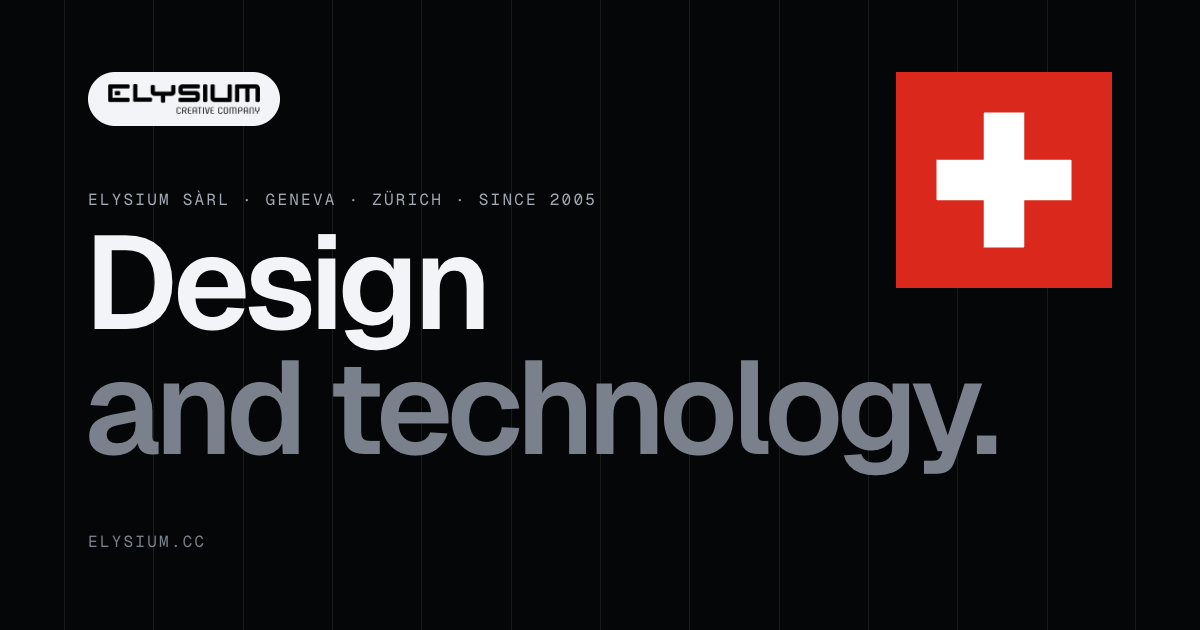
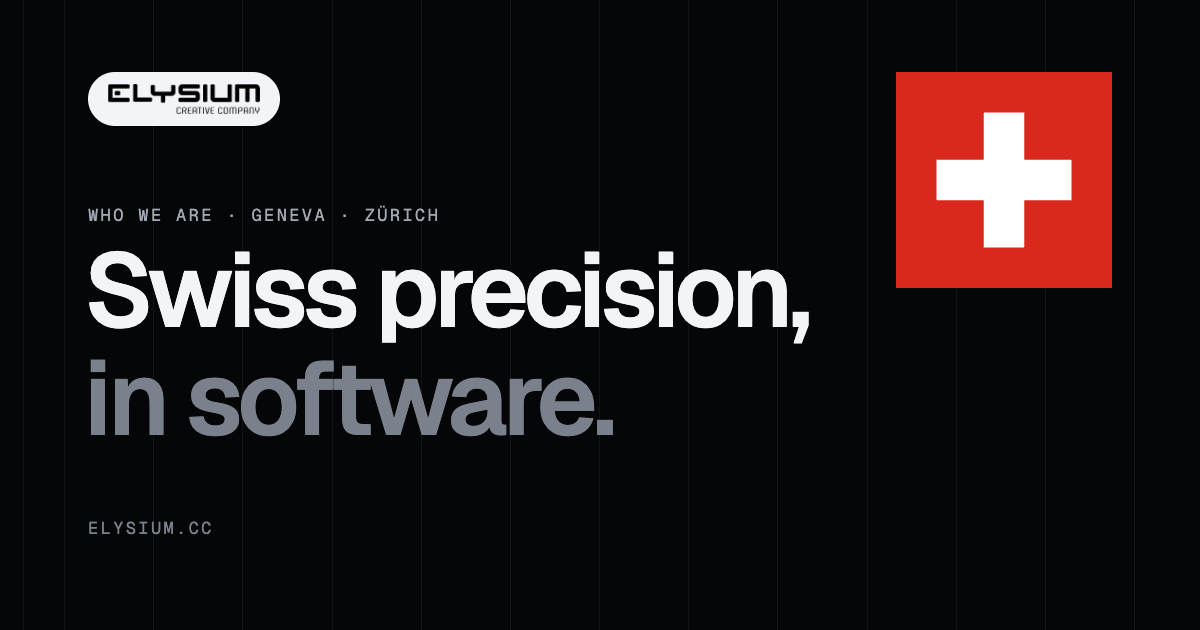
Share image: the live site's words, not the rejected slogan
assets/og.png still read "Elysium Sàrl · since 2005 · Design and
technology.", the text the CEO rejected, and it is what WhatsApp, iMessage
and LinkedIn show when the link is shared. Re-rendered with "Who we are ·
Geneva · Zürich" and "Swiss precision, in software."; deploy.js versions
the image link by its content so cached previews refresh.

diff --git a/deploy.js b/deploy.js
@@ -32,6 +32,7 @@ const NOINDEX = '<meta name="robots" content="noindex,nofollow">';
 
 // a version stamp on the page's stylesheet and script: Pages lets browsers keep files for 10 minutes, and a page from one
 // publish with a script from another breaks. main.js passes its stamp on to film3d.js and the hero's data.
+const OG = require('crypto').createHash('sha1').update(fs.readFileSync(path.join(ROOT, 'assets/og.png'))).digest('hex').slice(0, 8);
 const STAMP = require('crypto').createHash('sha1')
   .update(['main.js', 'film3d.js', 'styles.css', 'assets/hero3d/meta.json', 'assets/hero3d/terrain.png', 'assets/hero3d/city.bin']
     .map(f => fs.readFileSync(path.join(ROOT, f))).reduce((a, b) => Buffer.concat([a, b])))
@@ -60,6 +61,8 @@ let touched = 0, files = 0;
     if (BASE) h = h.replace(/\b(src|href)="\/(?!\/)/g, (m, a) => { touched++; return `${a}="${BASE}/`; });
     h = h.replace(/(property="og:(?:image|url)" content=")https:\/\/elysium\.cc\//g, `$1${ORIGIN}${BASE}/`);
     h = h.replace(/\b(src|href)="([^"?]*?(?:main\.js|styles\.css))"/g, `$1="$2?v=${STAMP}"`);
+    // the share image is versioned by its own content, so apps that cached an older link preview fetch the new one
+    h = h.replace(/(property="og:image" content="[^"]*?og\.png)"/g, `$1?v=${OG}"`);
     if (!h.includes('name="robots"'))
       h = h.replace('<meta name="viewport"', `${NOINDEX}\n<meta name="viewport"`);
 

diff --git a/docs/fr/index.html b/docs/fr/index.html
@@ -16,7 +16,7 @@
 <meta property="og:title" content="Elysium — Agence logicielle suisse : stratégie, développement &amp; R&amp;D">
 <meta property="og:description" content="Elysium est une agence logicielle dédiée à des projets qui ont du sens, avec une équipe éclectique d’ingénieurs et de designers unis par le sens des responsabilités, le savoir-faire et l’envie d’aller plus loin.">
 <meta property="og:url" content="https://timoteoadrogue.github.io/elysium-website/fr/">
-<meta property="og:image" content="https://timoteoadrogue.github.io/elysium-website/assets/og.png">
+<meta property="og:image" content="https://timoteoadrogue.github.io/elysium-website/assets/og.png?v=56b7c243">
 <meta property="og:image:width" content="1200">
 <meta property="og:image:height" content="630">
 <meta property="og:locale" content="fr_CH">

diff --git a/docs/de/index.html b/docs/de/index.html
@@ -16,7 +16,7 @@
 <meta property="og:title" content="Elysium — Schweizer Softwareagentur: Strategie, Entwicklung &amp; F&amp;E">
 <meta property="og:description" content="Elysium ist eine Softwareagentur für sinnvolle Projekte, mit einem vielseitigen Team aus Ingenieurinnen, Ingenieuren und Designern, vereint durch Verantwortung, Handwerk und den Willen, die Extrameile zu gehen.">
 <meta property="og:url" content="https://timoteoadrogue.github.io/elysium-website/de/">
-<meta property="og:image" content="https://timoteoadrogue.github.io/elysium-website/assets/og.png">
+<meta property="og:image" content="https://timoteoadrogue.github.io/elysium-website/assets/og.png?v=56b7c243">
 <meta property="og:image:width" content="1200">
 <meta property="og:image:height" content="630">
 <meta property="og:locale" content="de_CH">

diff --git a/docs/index.html b/docs/index.html
@@ -16,7 +16,7 @@
 <meta property="og:title" content="Elysium — Swiss Software Agency: Strategy, Build &amp; R&amp;D">
 <meta property="og:description" content="Elysium is a software agency dedicated to meaningful projects, with an eclectic team of engineers and designers united by responsibility, craft, and the push to go the extra mile.">
 <meta property="og:url" content="https://timoteoadrogue.github.io/elysium-website/">
-<meta property="og:image" content="https://timoteoadrogue.github.io/elysium-website/assets/og.png">
+<meta property="og:image" content="https://timoteoadrogue.github.io/elysium-website/assets/og.png?v=56b7c243">
 <meta property="og:image:width" content="1200">
 <meta property="og:image:height" content="630">
 <meta property="og:locale" content="en_GB">
